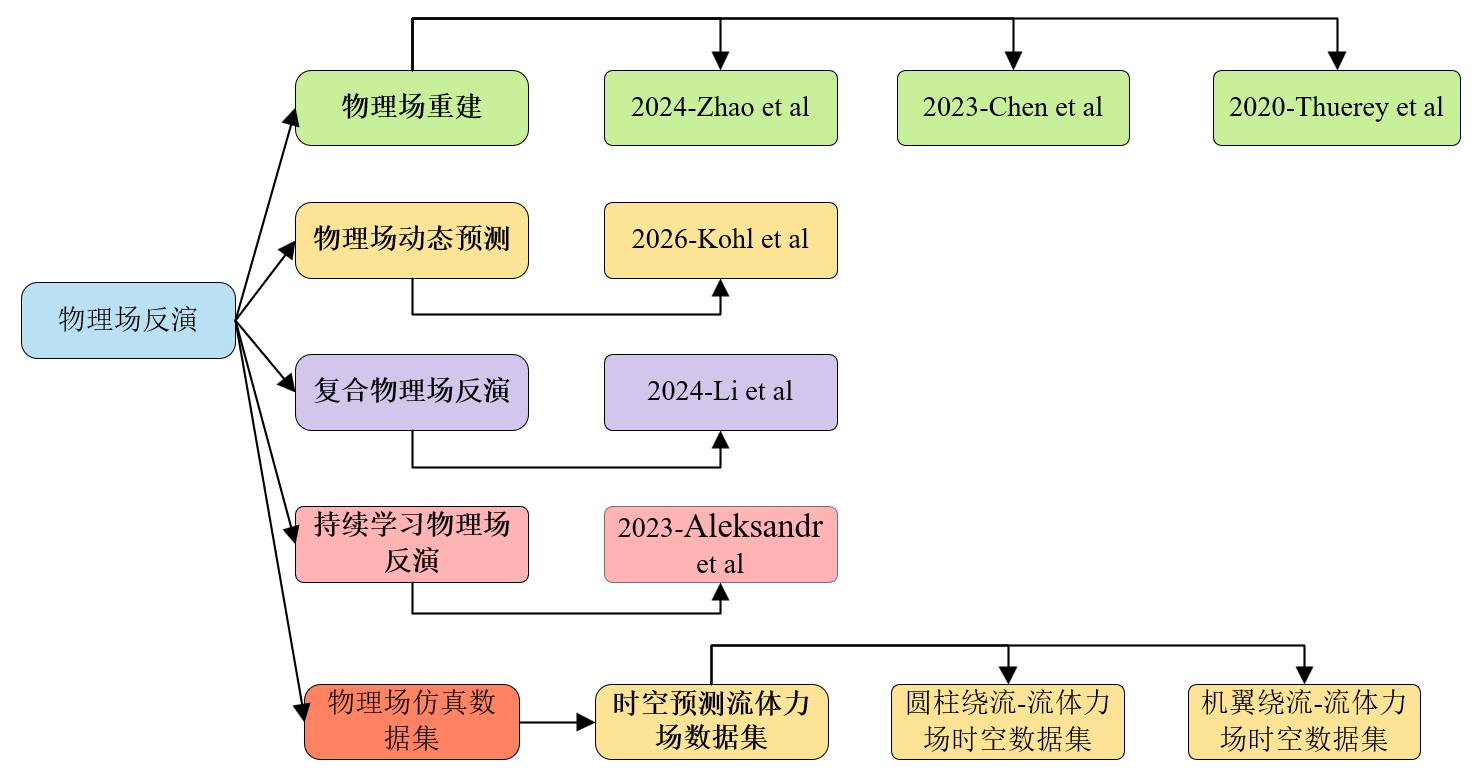
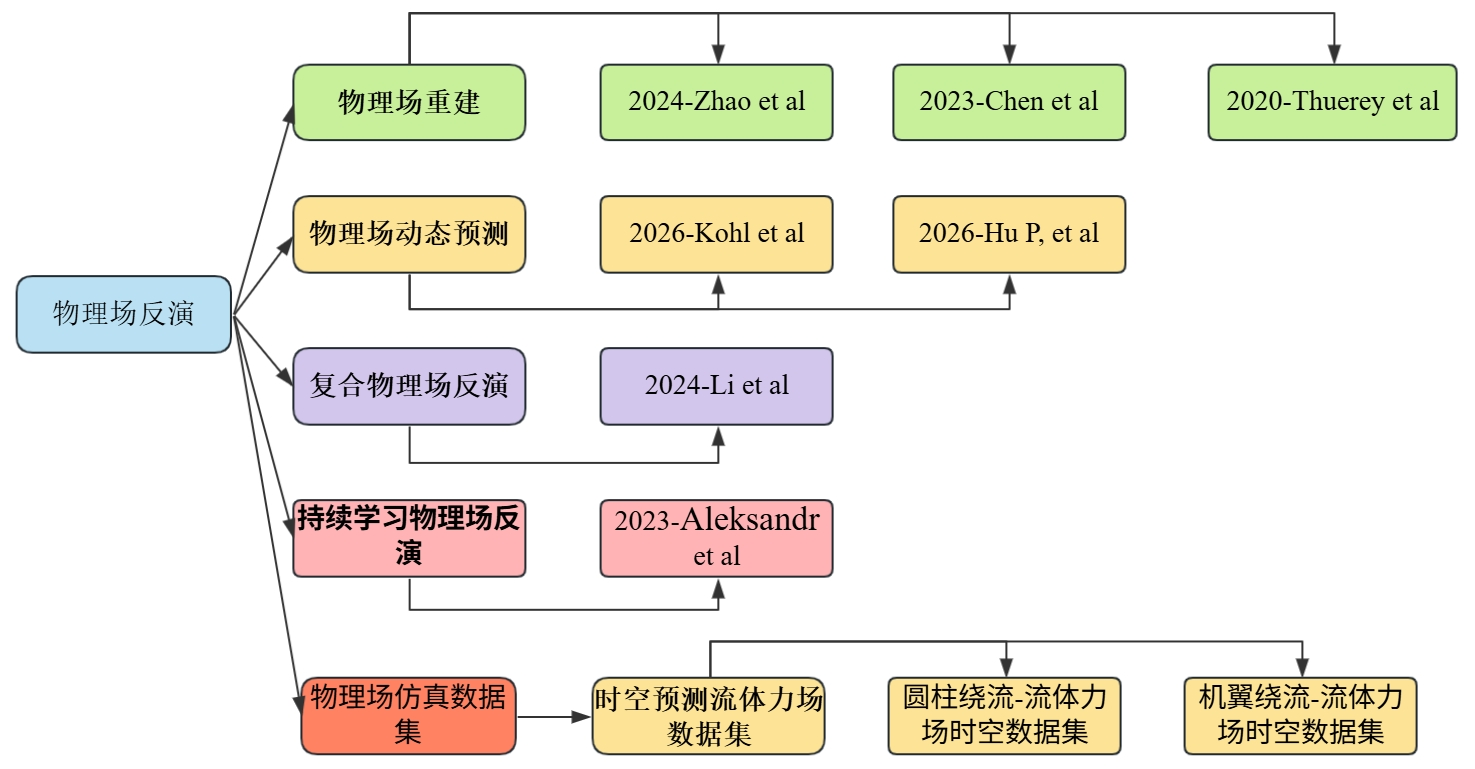
增加RealPDEBench

diff --git a/README.md b/README.md
@@ -24,6 +24,7 @@
 | [物理场重建](#physical-reconstruct) | 2023-Chen et al | [👉跳转↗](#machine-learning) |
 | [物理场重建](#physical-reconstruct) | 2020-Thuerey et al | [👉跳转↗](#deep-learning-airfoil-flows) |
 | [物理场动态预测](#dynamics-physical-predict) | 2026-Kohl et al | [👉跳转↗](#benchmarking-diffusion-turbulent-flow) |
+| [物理场动态预测](#dynamics-physical-predict) | 2026-Hu P, et al | 👉跳转↗ |
 | [复合物理场反演](#couple-pyhsical) | 2024-Li et al | [👉跳转↗](#learning-spatiotemporal-dynamics) |
 | [持续学习物理场反演](#contiune-learning-physics-informed) | 2023-Aleksandr et al | [👉跳转↗](#incremental-leanring-physics-informed) |
 | [物理场数据集生成](./Physical-Datasets/) | Physical-Datasets | [👉跳转↗](./Physical-Datasets/) |
@@ -762,6 +763,155 @@ Nvidia GeForce RTX 3060、CUDA 12.4、Python 3.12、Intel(R) Xeon(R) CPU E5-2680
 | Method | Parameters |
 | :----: | :--------: |
 |  ACDM  |   6.99M    |
+
+## 二 Hu P, Feng H, Liu H, et al. RealPDEBench: A benchmark for complex physical systems with real-world data[J]. arXiv preprint arXiv:2601.01829, 2026.
+
+1 源码仓库
+
+（1）引用：Hu P, Feng H, Liu H, et al. RealPDEBench: A benchmark for complex physical systems with real-world data[J]. arXiv preprint arXiv:2601.01829, 2026.
+
+（2）源代码链接：https://github.com/AI4Science-WestlakeU/RealPDEBench
+
+（3）论文链接：https://arxiv.org/pdf/2601.01829
+
+2、数据集描述
+
+从数据角度来看：涵盖流体动力学和燃烧领域的五种场景。这五个场景分别为圆柱绕流、受控圆柱体系统、流固耦合（FSI）、翼型流体动力学的三维效应以及燃烧反应流。
+
+（1）圆柱绕流数据集是流体动力学中的一个基础基准问题，它研究了不同雷诺数（Re）下圆柱体尾流动力学，涵盖了从层流到湍流的各种流动状态。该数据集捕捉了经典的卡门涡街形成过程，并提供了模拟和实际测量数据，可用于研究非定常流动现象。
+
+（2）受控圆柱体数据集通过引入外部强制的主动控制扩展了基本圆柱体流动，涵盖了不同的雷诺数和控制序列（不同频率的周期性正弦控制），这突显了学习受控流体动力学的挑战。
+
+（3）流固耦合（FSI）数据集能够捕捉圆柱体在流体作用下发生结构振动的现象，代表了实际应用中遇到的关键耦合动力学，例如风荷载作用下的桥梁和洋流中的海上平台。该模型考虑了不同的雷诺数、质量比和阻尼系数，涵盖了各种构型下的锁定现象和驰振不稳定性。
+
+（4）翼型数据集包含从三维模拟和实验中提取的横截面数据。三维效应增加了流体的复杂性，从而增强了小尺度涡旋结构。我们的数据集涵盖了不同的攻角和雷诺数，这对于海洋工程应用中的翼型设计和流体动力学优化尤为重要。
+
+燃烧反应流数据集涉及复杂的多场耦合问题，例如压力场、温度场、声场、速度场、浓度场等。准确预测燃烧引起的浓度场、温度场和其他场的演变对于有效控制航空航天发动机的热声不稳定性具有重要意义。
+
+3 实验结果复现总结
+
+1 FSI数据集
+
+面向数据的指标
+
+| 模型       | RMSE        | MAE         | Rel L2      | R2          | FRMSE       | FE           |
+| ---------- | ----------- | ----------- | ----------- | ----------- | ----------- | ------------ |
+| CNO        | 0.01527     | 0.00829     | 0.10587     | 0.96032     | 0.00131     | 21.32656     |
+|            | **0.01060** | **0.00638** | **0.07505** | 0.98008     | **0.00097** | **13.12214** |
+| Deeponet   | 0.03427     | 0.02122     | 0.24764     | 0.79477     | 0.00345     | 49.31825     |
+|            | 0.03512     | 0.02157     | 0.25140     | **0.79009** | 0.00403     | **25.79555** |
+| U-Net      | 0.01379     | 0.00685     | 0.09313     | 0.96760     | 0.00119     | 12.71709     |
+|            | **0.00836** | **0.00451** | **0.05795** | 0.98816     | 0.00625     | **5.73901**  |
+| Transolver | 0.02358     | 0.01278     | 0.15668     | 0.90214     | 0.00267     | 13.07140     |
+|            | 0.02376     | 0.01296     | 0.15700     | 0.90398     | 0.00279     | 19.53078     |
+
+面向物理的指标
+
+ 
+
+| 模型       | Low-fRMSE   | Mid-fRMSE   | High-fRMSE  | KE      |
+| ---------- | ----------- | ----------- | ----------- | ------- |
+| CNO        | 0.00184     | 0.00124     | 0.00099     | 0.00014 |
+|            | 0.00087     | **0.00100** | 0.00103     | 0.00005 |
+| Deeponet   | 0.00476     | 0.00540     | 0.00391     | 0.00025 |
+|            | 0.00525     | 0.00586     | 0.00403     | 0.00009 |
+| U-Net      | 0.00057     | 0.00076     | 0.00080     | 0.00014 |
+|            | **0.00053** | **0.00074** | **0.00079** | 0.00004 |
+| Transolver | 0.00210     | 0.00277     | 0.00239     | 0.00009 |
+|            | 0.00277     | 0.00301     | 0.00251     | 0.00009 |
+
+2 Combustion数据集
+
+面向数据的指标
+
+| 模型           | RMSE    | MAE     | Rel L2  | R2      | FRMSE   | FE       |
+| -------------- | ------- | ------- | ------- | ------- | ------- | -------- |
+| GK-Transformer | 0.02755 | 0.00770 | 0.65741 | 0.57253 | 0.00257 | 72.15970 |
+|                | 0.02665 | 0.00794 | 0.78578 | 0.77919 | 0.00416 | 56.19652 |
+| MWT            | 0.02346 | 0.00594 | 0.57131 | 0.69001 | 0.00212 | 48.42057 |
+|                | 0.02528 | 0.00644 | 0.58330 | 0.89127 | 0.00320 | 43.41388 |
+| DPOT-S-FT      | 0.02262 | 0.00614 | 0.55686 | 0.71180 | 0.00203 | 44.36895 |
+|                | 0.03018 | 0.00719 | 0.64402 | 0.94363 | 0.00190 | 30.50632 |
+| WDNO           | 0.03360 | 0.00936 | 0.76863 | 0.36430 | 0.00324 | 95.65475 |
+|                | 0.04061 | 0.01093 | 0.76049 | 0.38246 | 0.00303 | 81.45007 |
+
+面向物理的指标
+
+| 模型           | Low-fRMSE | Mid-fRMSE | High-fRMSE | KE   |
+| -------------- | --------- | --------- | ---------- | ---- |
+| GK-Transformer | 0.00423   | 0.00349   | 0.00229    | -    |
+|                | 0.00477   | 0.00394   | 00252      | -    |
+| MWT            | 0.00287   | 0.00290   | 0.00206    | -    |
+|                | 0.00260   | 0.00292   | 0.00214    |      |
+| DPOT-S-FT      | 0.00230   | 0.00273   | 0.00208    | -    |
+|                | 0.00186   | 0.00188   | 0.00167    |      |
+| WDNO           | 0.00615   | 0.00443   | 0.00257    | -    |
+|                | 0.00639   | 0.00493   | 0.00240    | -    |
+
+1 Controlled Cylinder数据集
+
+面向数据的指标
+
+| 模型           | RMSE    | MAE     | Rel L2  | R2      | FRMSE   | FE        |
+| -------------- | ------- | ------- | ------- | ------- | ------- | --------- |
+| CNO            | 0.01126 | 0.00565 | 0.08116 | 0.97485 | 0.00135 | 28.88530  |
+|                | 0.01280 | 0.00779 | 0.09544 | 0.96752 | 0.00266 | 66.47195  |
+| Deeponet       | 0.03063 | 0.01974 | 0.23983 | 0.81402 | 0.00477 | 103.55875 |
+|                | 0.04914 | 0.03308 | 0.40378 | 0.52151 | 0.01188 | 103.48212 |
+| U-Net          | 0.01083 | 0.00523 | 0.07585 | 0.97676 | 0.00130 | 34.18222  |
+|                | 0.00957 | 0.00516 | 0.07030 | 0.98185 | 0.00140 | 40.71015  |
+| Transolver     | 0.01974 | 0.01105 | 0.14127 | 0.92278 | 0.00258 | 47.72284  |
+|                | 0.01820 | 0.01007 | 0.12420 | 0.93435 | 0.00307 | 31.37592  |
+| GK-Transformer | 0.01291 | 0.00698 | 0.09513 | 0.96695 | 0.00155 | 32.69817  |
+|                | 0.01206 | 0.00694 | 0.09078 | 0.97119 | 0.00178 | 39.16942  |
+| MWT            | 0.01328 | 0.00726 | 0.09763 | 0.96504 | 0.00156 | 36.93626  |
+|                | 0.01349 | 0.00800 | 0.10521 | 0.96393 | 0.00174 | 39.74050  |
+| FNO            | 0.01221 | 0.00656 | 0.08960 | 0.97047 | 0.00146 | 34.40803  |
+|                | 0.01320 | 0.00804 | 0.10282 | 0.96548 | 0.00229 | 46.17414  |
+
+面向物理的指标
+
+| 模型           | Low-fRMSE | Mid-fRMSE | High-fRMSE | KE      |
+| -------------- | --------- | --------- | ---------- | ------- |
+| CNO            | 0.00073   | 0.00103   | 0.00102    | 0.00008 |
+|                | 0.00281   | 0.00210   | 0.00166    | 0.00004 |
+| Deeponet       | 0.00350   | 0.00642   | 0.00626    | 0.00017 |
+|                | 0.01126   | 0.01750   | 0.00969    | 0.00007 |
+| U-Net          | 0.00079   | 0.00102   | 0.00101    | 0.00008 |
+|                | 0.00158   | 0.00136   | 0.00125    | 0.00004 |
+| Transolver     | 0.00203   | 0.00238   | 0.00227    | 0.00013 |
+|                | 0.00393   | 0.00259   | 0.00244    | 0.00005 |
+| GK-Transformer | 0.00097   | 0.00129   | 0.00126    | 0.00010 |
+|                | 0.00182   | 0.00185   | 0.00169    | 0.00004 |
+| MWT            | 0.00085   | 0.00117   | 0.00116    | 0.00009 |
+|                | 0.00174   | 0.00181   | 0.00170    | 0.00004 |
+| FNO            | 0.00094   | 0.00120   | 0.00115    | 0.00009 |
+|                | 0.00120   | 0.00210   | 0.00187    | 0.00004 |
+
+4 Cylinder数据集
+
+面向数据的指标
+
+| 模型           | RMSE    | MAE     | Rel L2  | R2      | FRMSE   |
+| -------------- | ------- | ------- | ------- | ------- | ------- |
+| CNO            | 0.05911 | 0.01962 | 0.15177 | 0.77450 | 0.00597 |
+|                | 0.21501 | 0.00730 | 0.07641 | 0.92652 | 0.15592 |
+| Deeponet       | 0.07612 | 0.02123 | 0.16087 | 0.62603 | 0.00685 |
+|                | 0.45657 | 0.01516 | 0.15914 | 0.75480 | 0.44090 |
+| U-Net          | 0.07535 | 0.01478 | 0.09430 | 0.63360 | 0.00645 |
+|                | 0.23930 | 0.00875 | 0.07142 | 0.91402 | 0.35285 |
+| Transolver     | 0.08928 | 0.02582 | 0.19561 | 0.48559 | 0.00753 |
+|                | 0.43613 | 0.01476 | 0.15691 | 0.69687 | 0.60779 |
+| GK-Transformer | 0.10814 | 0.02063 | 0.11349 | 0.24523 | 0.00821 |
+|                | 0.38531 | 0.01224 | 0.08972 | 0.84121 | 0.83976 |
+| MWT            | 0.06178 | 0.01341 | 0.10118 | 0.75365 | 0.00541 |
+|                | 0.36801 | 0.00719 | 0.08154 | 0.89831 | 0.21868 |
+| FNO            | 0.06765 | 0.01362 | 0.09777 | 0.70467 | 0.00632 |
+|                | 0.35926 | 0.00951 | 0.06895 | 0.98156 | 0.34933 |
+
+面向物理的指标
+
+
 
 <a id="couple-pyhsical"></a>
 
